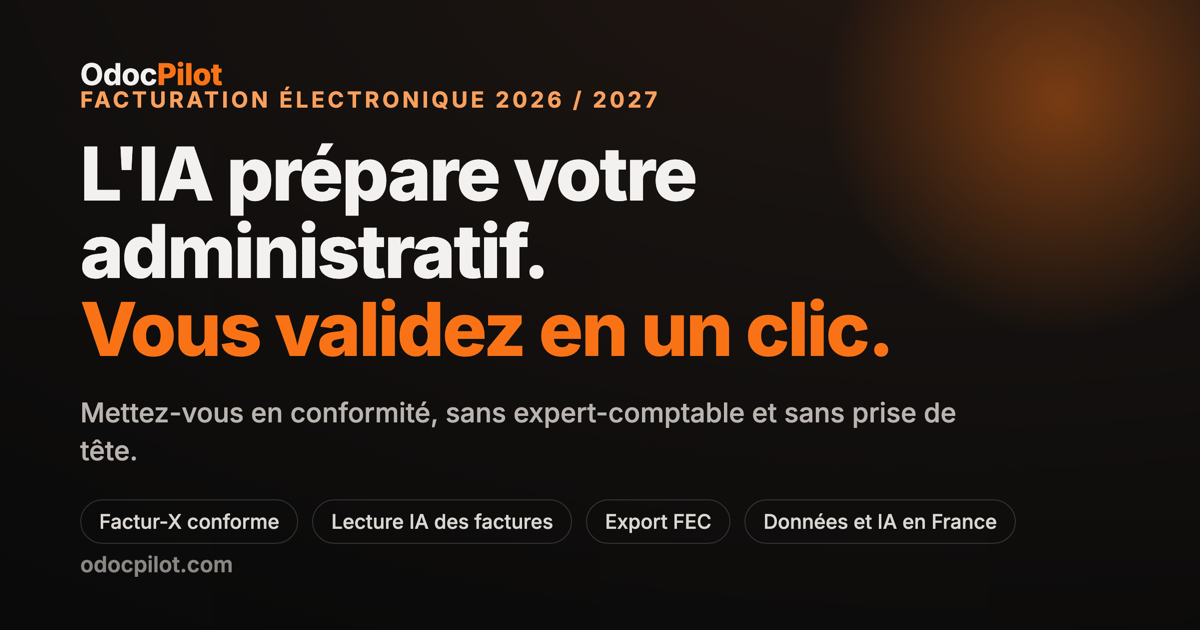
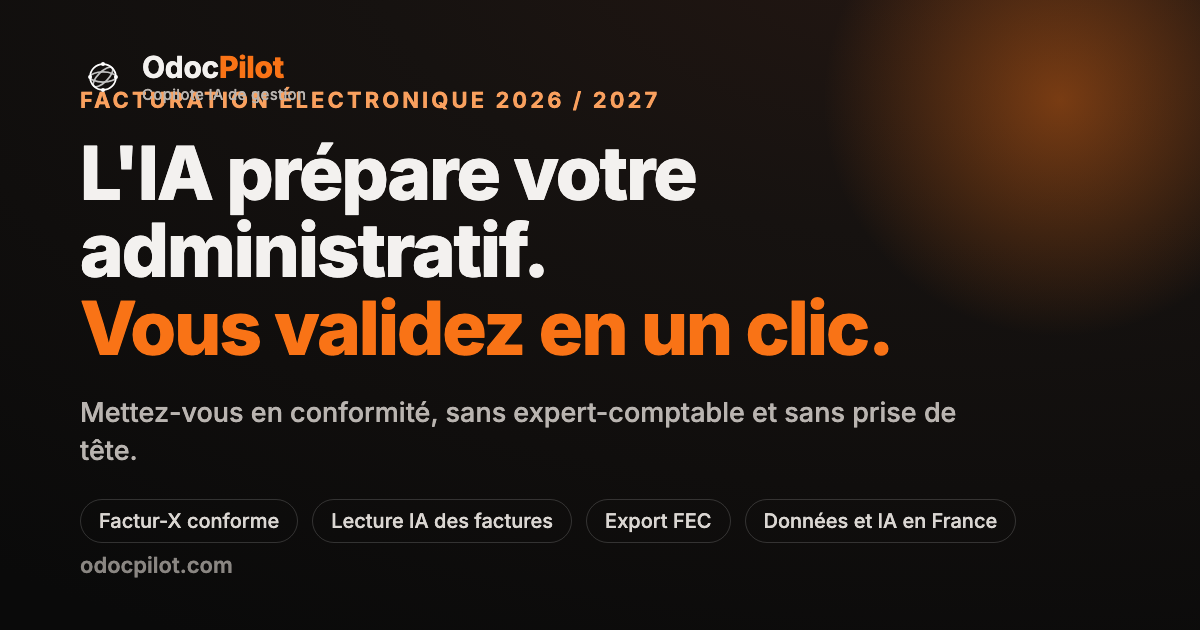
FEAT: wordmark « Copilote IA de gestion » + bloc marque footer + OG
- Logo.tsx : sous-titre « BUSINESS OS » (perime, jargon) remplace par
  « Copilote IA de gestion » (clair pour la cible TPE/PME)
- SiteFooter.tsx : bloc marque en tete du footer (logo + signature
  « L'IA prepare votre administratif, vous validez »)
- og.html / og-image.png : ajout du symbole orbital + descripteur dans
  l'image de partage social (regeneree, dark+orange)

diff --git a/public/og.html b/public/og.html
@@ -15,8 +15,12 @@
   }
   .glow { position: absolute; top: -170px; right: -130px; width: 540px; height: 540px; border-radius: 50%;
           background: radial-gradient(circle, rgba(249,115,22,.42), transparent 62%); }
-  .brand { position: absolute; top: 56px; left: 80px; font-size: 30px; font-weight: 700; letter-spacing: -.01em; }
-  .brand b { color: #F97316; }
+  .brand { position: absolute; top: 52px; left: 80px; display: flex; align-items: center; gap: 16px; }
+  .brand .mark { width: 46px; height: 46px; flex: none; }
+  .brand .wm { display: flex; flex-direction: column; line-height: 1; }
+  .brand .wm .name { font-size: 30px; font-weight: 700; letter-spacing: -.01em; }
+  .brand .wm .name b { color: #F97316; }
+  .brand .wm .desc { margin-top: 5px; font-size: 15px; font-weight: 500; color: #B9B4B0; letter-spacing: .02em; }
   .eyebrow { color: #F9A05E; font-size: 22px; font-weight: 700; letter-spacing: .14em; text-transform: uppercase; }
   h1 { font-size: 74px; line-height: 1.05; font-weight: 800; letter-spacing: -.025em; margin-top: 22px; max-width: 920px; }
   h1 em { color: #F97316; font-style: normal; }
@@ -29,7 +33,17 @@
 <body>
   <div class="og">
     <div class="glow"></div>
-    <div class="brand">Odoc<b>Pilot</b></div>
+    <div class="brand">
+      <svg class="mark" viewBox="0 0 64 64" fill="none" xmlns="http://www.w3.org/2000/svg">
+        <g transform="translate(32,32)">
+          <ellipse rx="18" ry="7" stroke="#C2C2C2" stroke-width="2.4"/>
+          <ellipse rx="7" ry="18" stroke="#C2C2C2" stroke-width="2.4" transform="rotate(45)"/>
+          <circle r="18" stroke="#fff" stroke-width="2.4"/>
+          <g fill="#fff"><circle cx="0" cy="-18" r="2.8"/><circle cx="18" cy="0" r="2.8"/><circle cx="0" cy="18" r="2.8"/><circle cx="-18" cy="0" r="2.8"/></g>
+        </g>
+      </svg>
+      <div class="wm"><div class="name">Odoc<b>Pilot</b></div><div class="desc">Copilote IA de gestion</div></div>
+    </div>
     <div class="eyebrow">Facturation électronique 2026 / 2027</div>
     <h1>L'IA prépare votre administratif.<br><em>Vous validez en un clic.</em></h1>
     <div class="sub">Mettez-vous en conformité, sans expert-comptable et sans prise de tête.</div>

diff --git a/src/components/SiteFooter.tsx b/src/components/SiteFooter.tsx
@@ -1,10 +1,17 @@
 import { Link } from "react-router-dom";
 import { TrustCredentials } from "@/components/TrustCredentials";
+import { Logo } from "@/components/Logo";
 
 export function SiteFooter() {
   return (
     <footer className="border-t border-border py-14 bg-card">
       <div className="mx-auto max-w-7xl px-4 sm:px-6 lg:px-8">
+        <div className="mb-12 max-w-sm">
+          <Logo size="md" variant="full" />
+          <p className="mt-4 text-sm text-muted-foreground leading-relaxed">
+            L'IA prépare votre administratif, vous validez en un clic. Copilote IA français de facturation et de conformité, hébergé en France.
+          </p>
+        </div>
         <div className="grid grid-cols-2 md:grid-cols-3 lg:grid-cols-5 gap-8">
           <div>
             <h3 className="text-sm font-bold text-foreground mb-4">Produit</h3>

diff --git a/src/components/Logo.tsx b/src/components/Logo.tsx
@@ -56,7 +56,7 @@ export function Logo({
         OdocPilot
       </text>
 
-      {/* Sous-titre "BUSINESS OS" */}
+      {/* Descripteur (clair, sans jargon) */}
       <text
         x={49}
         y={40}
@@ -65,9 +65,9 @@ export function Logo({
         fontWeight="500"
         fill={textColor === 'transparent' ? symbolColor : textColor}
         opacity={textColor === 'transparent' ? 0 : 0.7}
-        letterSpacing="3"
+        letterSpacing="0.3"
       >
-        BUSINESS OS
+        Copilote IA de gestion
       </text>
     </svg>
   )
